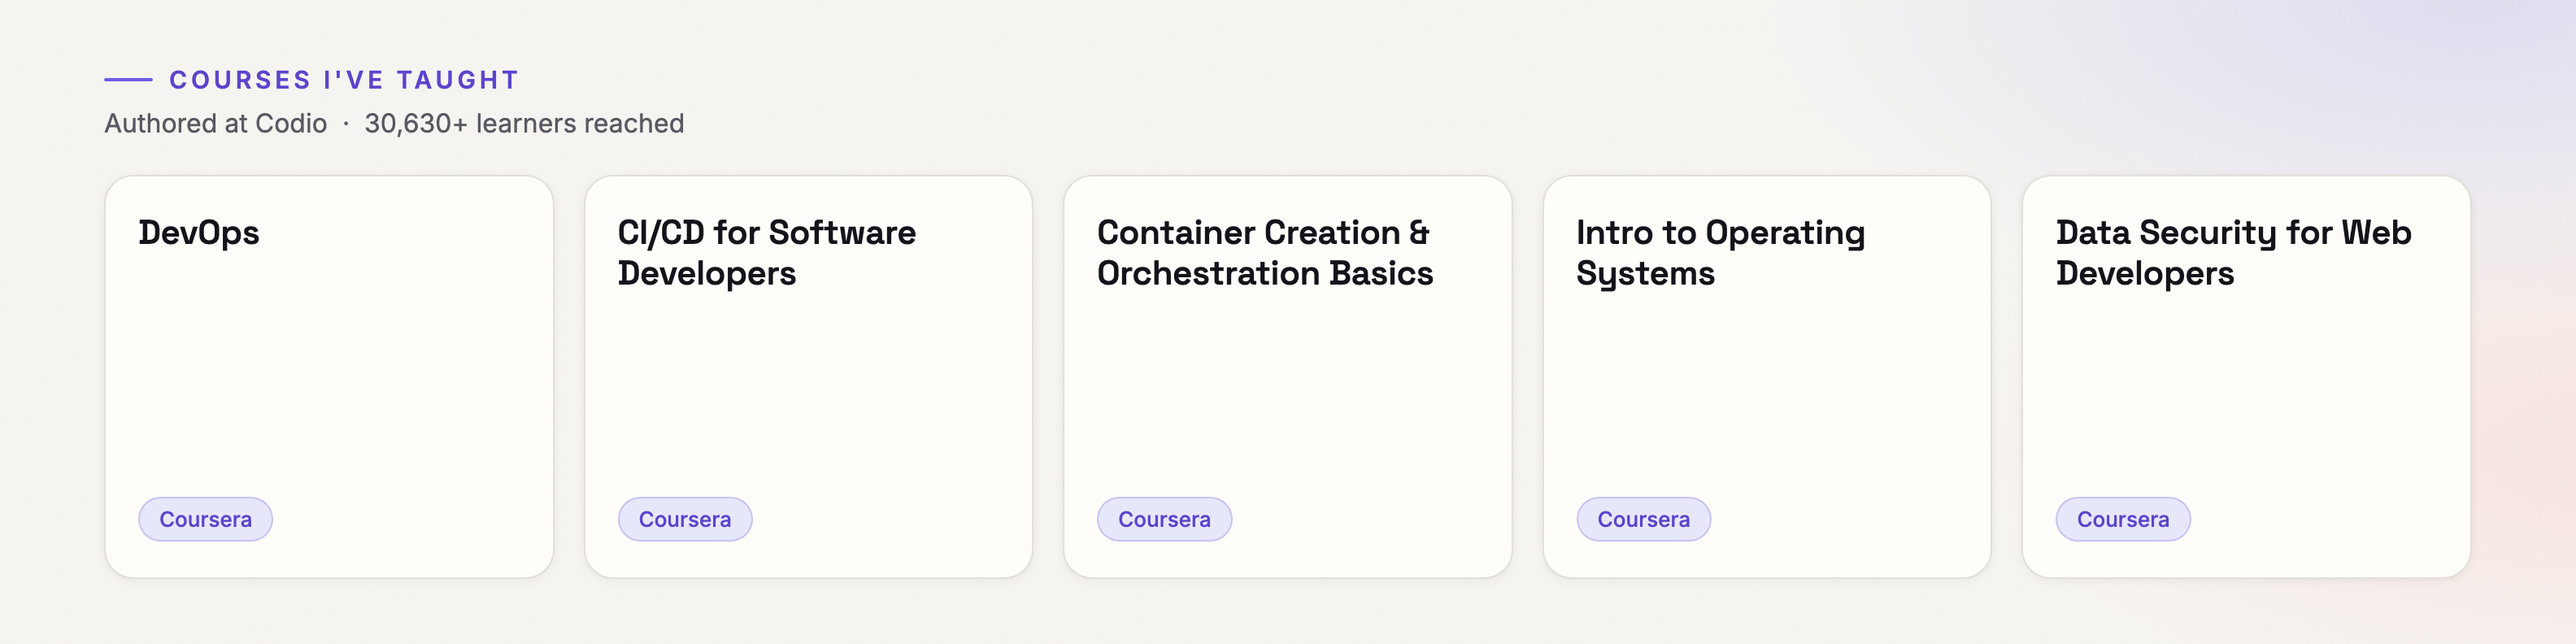
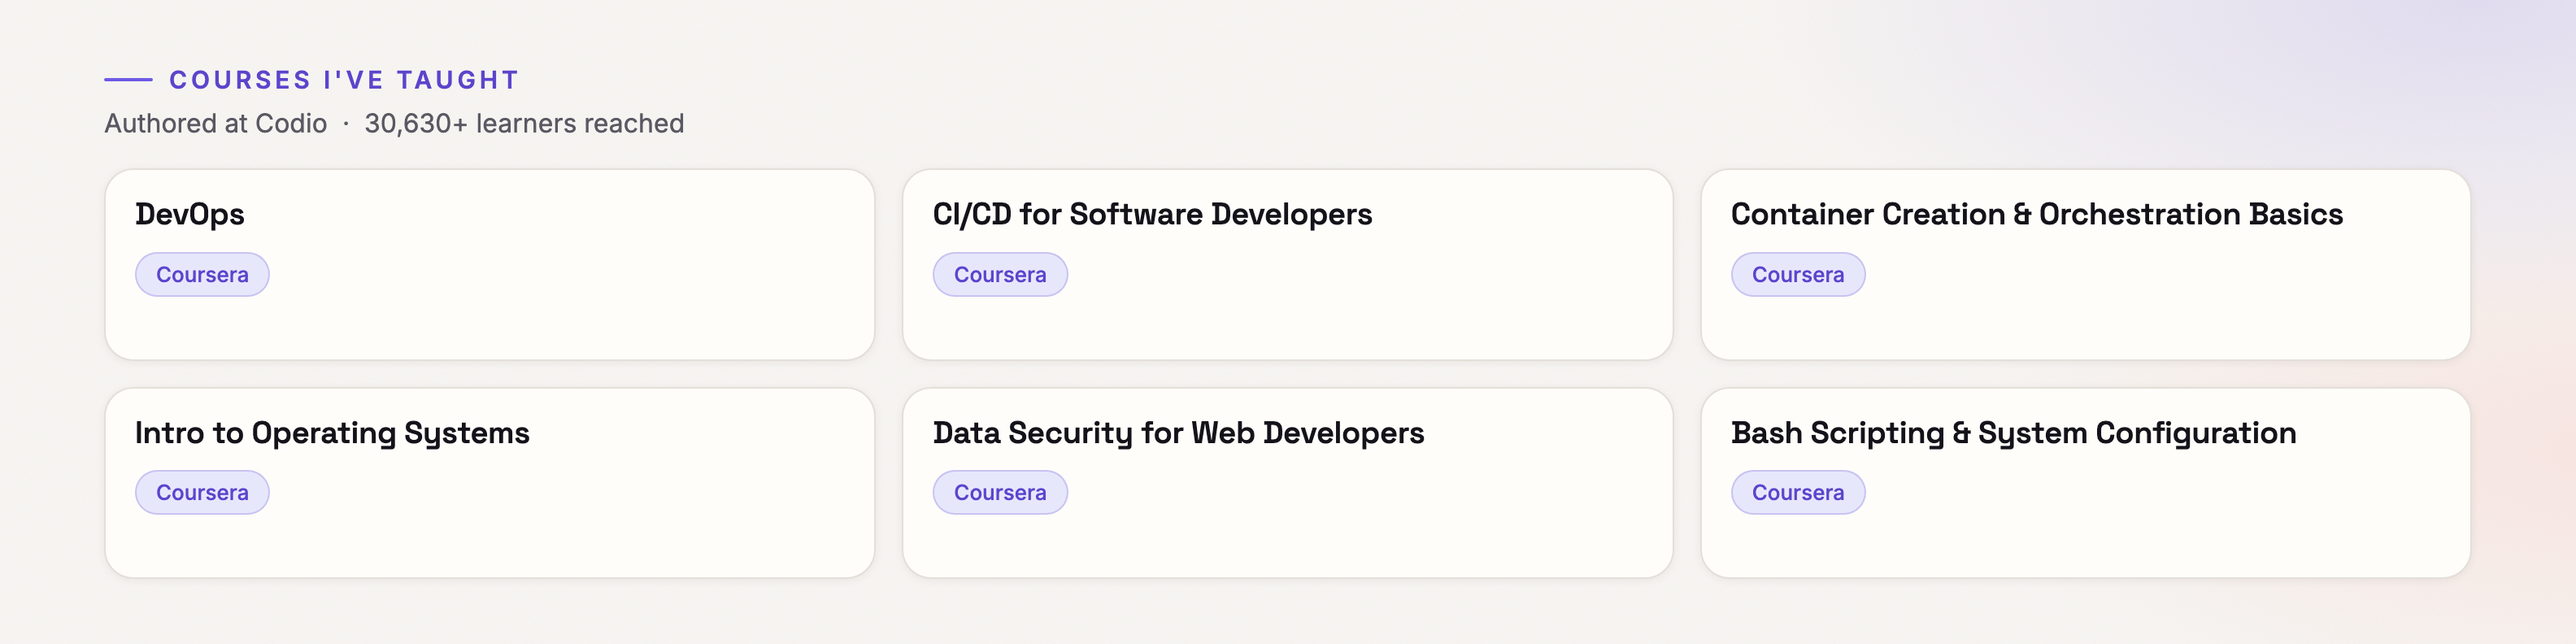
Course-cards image: add 6th course, lay out as 2x3 grid
Adds Bash Scripting & System Configuration and switches the card layout
from a single row of 5 to a two-row grid of six Coursera courses.

diff --git a/banner/courses.html b/banner/courses.html
@@ -37,18 +37,21 @@
   }
   .eyebrow .bar { width:30px; height:2px; background:var(--violet); border-radius:2px; }
   .subline { margin-top:8px; font-size:16px; color:var(--muted); }
-  .cards { display:flex; gap:18px; margin-top:22px; flex:1; }
+  .cards {
+    display:grid; grid-template-columns:repeat(3,1fr); grid-template-rows:repeat(2,1fr);
+    gap:16px; margin-top:18px; flex:1;
+  }
   .card {
-    flex:1; display:flex; flex-direction:column;
+    display:flex; flex-direction:column; gap:12px;
     background:var(--card); border:1px solid var(--rule); border-radius:18px;
-    padding:22px 20px; box-shadow:0 1px 6px rgba(20,19,26,0.06);
+    padding:16px 18px; box-shadow:0 1px 6px rgba(20,19,26,0.06);
   }
   .card h2 {
-    font-family:var(--display); font-weight:600; font-size:21px; line-height:1.18;
+    font-family:var(--display); font-weight:600; font-size:19px; line-height:1.18;
     letter-spacing:-0.01em; color:var(--ink);
   }
   .pill {
-    margin-top:auto; align-self:flex-start;
+    align-self:flex-start;
     font-size:13px; font-weight:500; color:var(--link);
     background:color-mix(in oklch, var(--link) 12%, var(--card));
     border:1px solid color-mix(in oklch, var(--link) 22%, transparent);
@@ -69,6 +72,7 @@
         <div class="card"><h2>Container Creation &amp; Orchestration Basics</h2><span class="pill">Coursera</span></div>
         <div class="card"><h2>Intro to Operating Systems</h2><span class="pill">Coursera</span></div>
         <div class="card"><h2>Data Security for Web Developers</h2><span class="pill">Coursera</span></div>
+        <div class="card"><h2>Bash Scripting &amp; System Configuration</h2><span class="pill">Coursera</span></div>
       </div>
     </div>
   </div>
